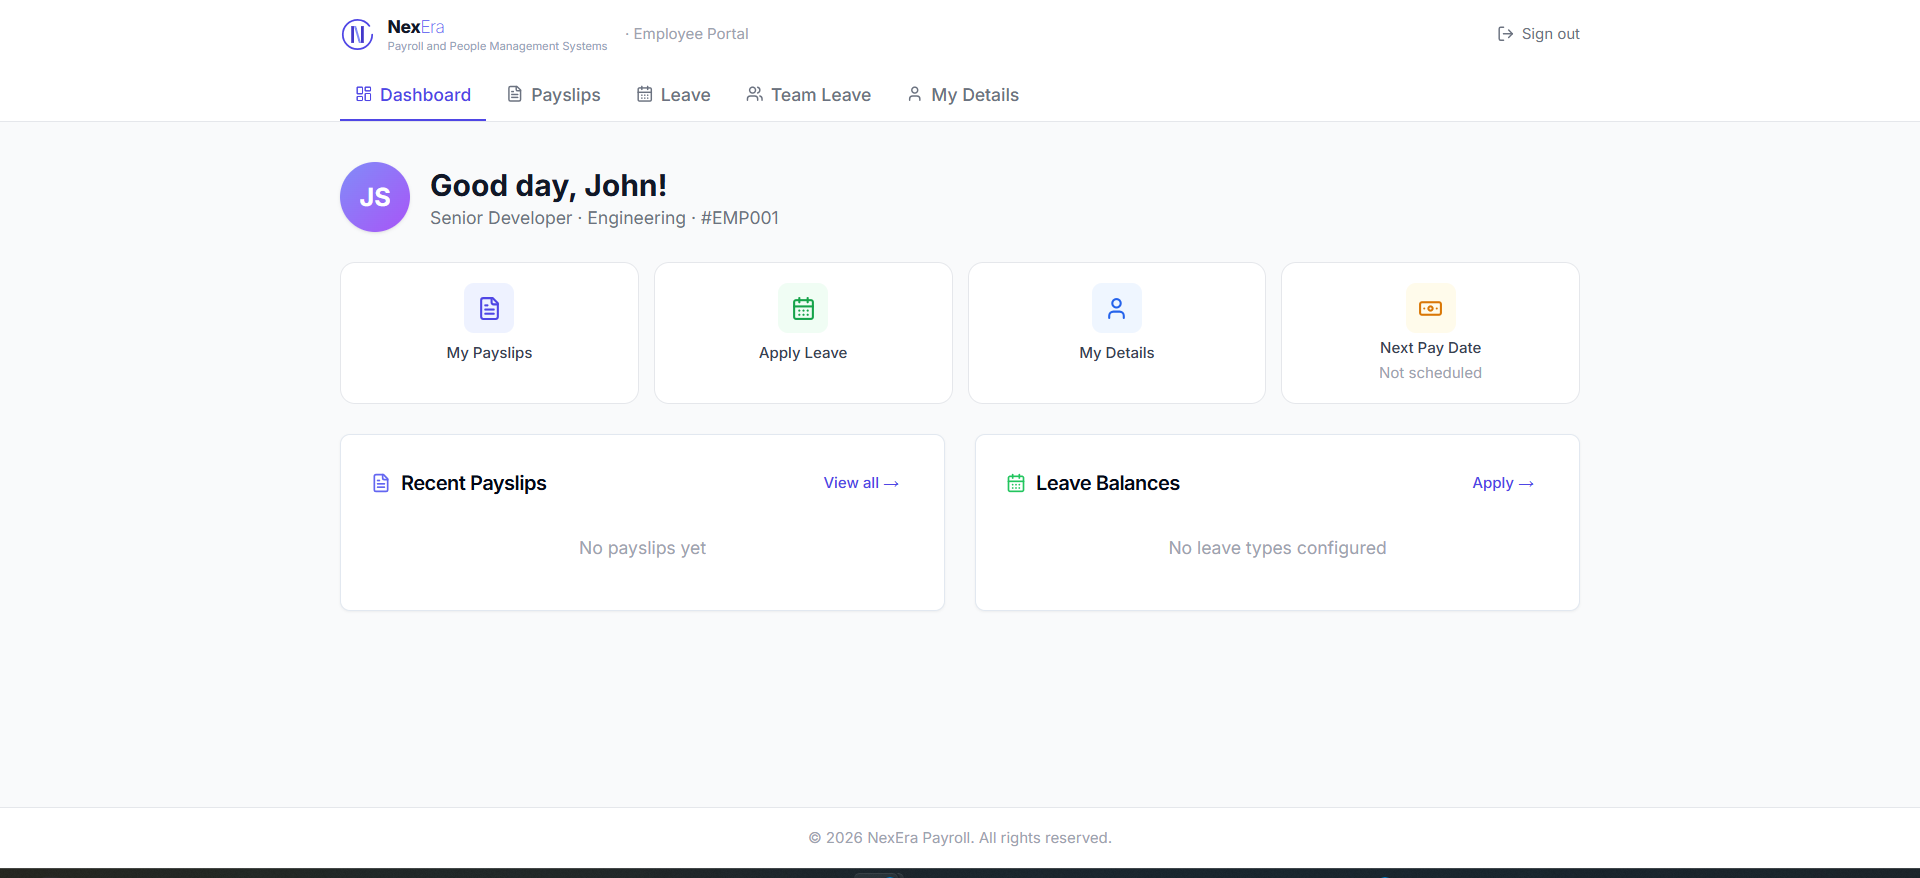
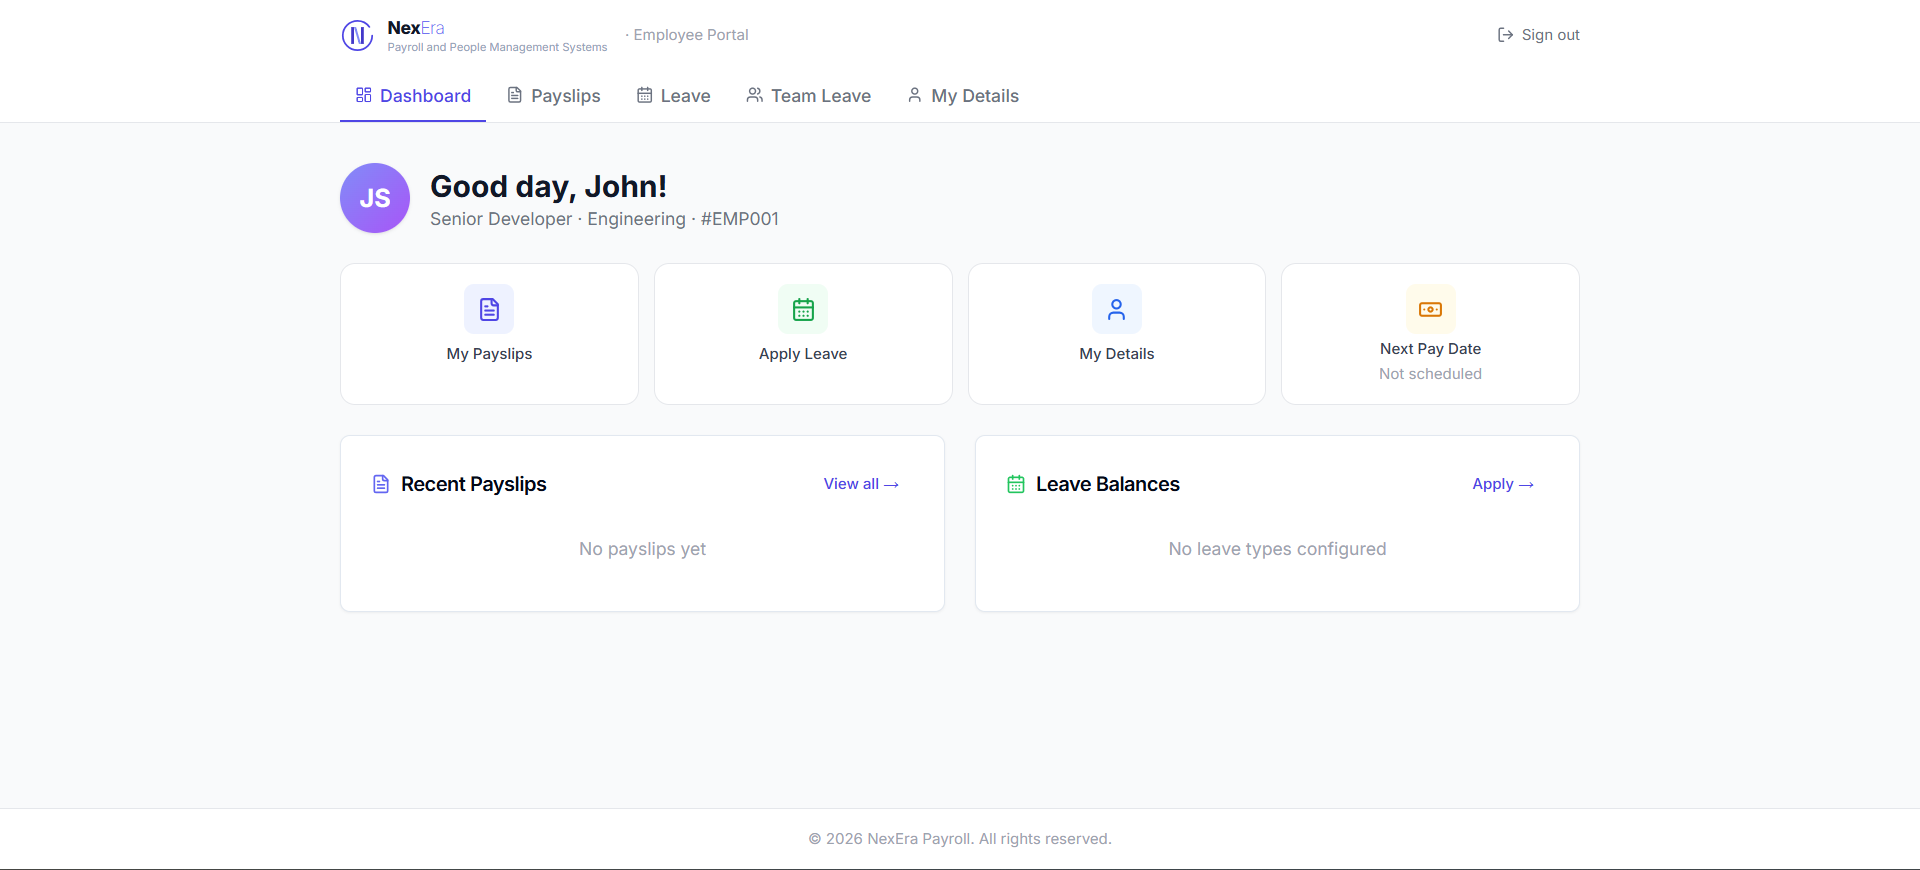
Clean screenshot crops, redact email, show full slides with object-contain
Re-cropped all screenshots from originals: removed window title bar,
orange impersonation banner, browser chrome (portal) and Windows taskbar.
Redacted the admin email from the audit trail screenshot.
Carousel now uses object-contain so slides are never cut on any viewport.

diff --git a/components/hero-carousel.tsx b/components/hero-carousel.tsx
@@ -126,13 +126,13 @@ export default function HeroCarousel() {
                   {slide.caption}
                 </p>
               </div>
-              <div className="w-full max-w-5xl rounded-xl overflow-hidden shadow-2xl border border-indigo-700/40 flex-1 min-h-0 relative">
+              <div className="w-full max-w-5xl flex-1 min-h-0 flex items-center justify-center">
                 <Image
                   src={slide.src}
                   alt={slide.label}
                   width={1920}
-                  height={947}
-                  className="w-full h-full object-cover object-top"
+                  height={slide.src === "/screenshots/portal.png" ? 870 : 933}
+                  className="max-w-full max-h-full w-auto h-auto object-contain rounded-xl shadow-2xl border border-indigo-700/40"
                   priority={current === 1}
                 />
               </div>
